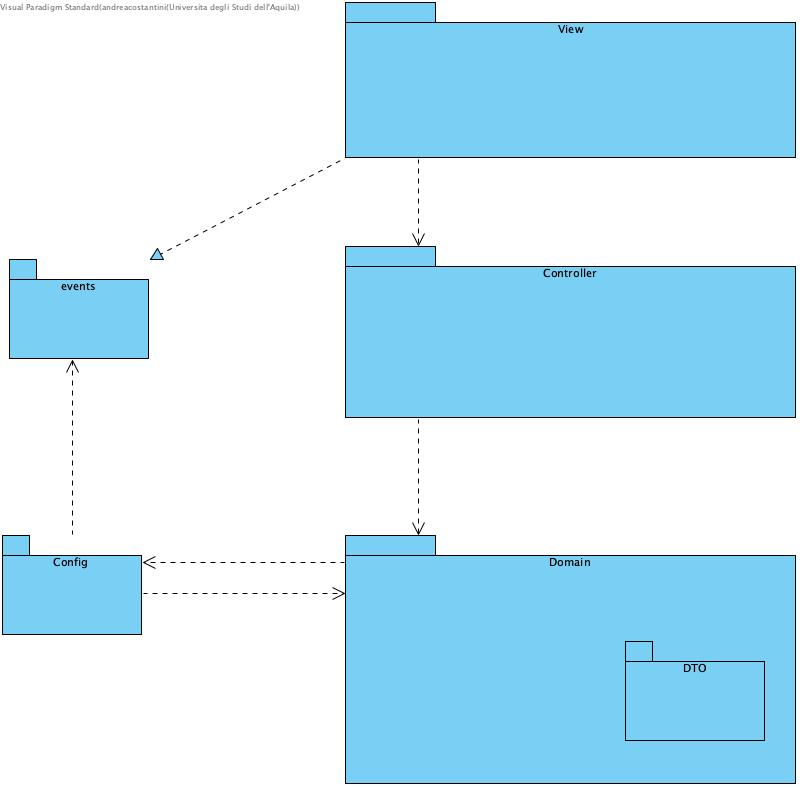
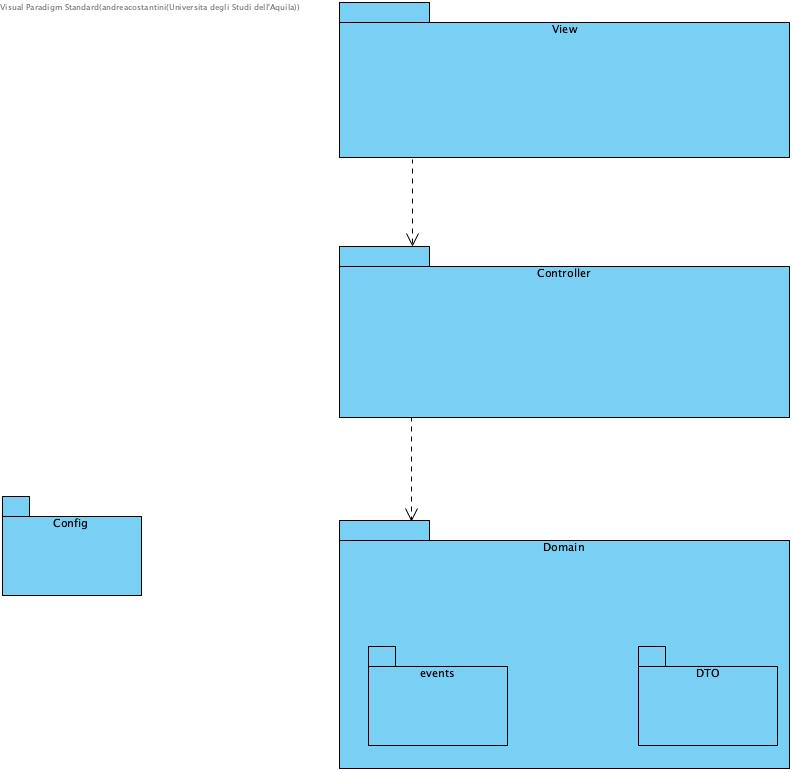
Move event classes to com.cluedo.events
Refactor: relocate EventDispatcher, EventHandler and EventListener into the com.cluedo.events package and update package declarations. Adjusted imports across the codebase (GameBootstrapper, AssumptionState, Board, CluedoGame, TurnView, WelcomeView) to reference the new package. Includes minor cleanup and related binary metadata updates.

diff --git a/demo/src/main/java/com/cluedo/domain/Board.java b/demo/src/main/java/com/cluedo/domain/Board.java
@@ -8,11 +8,10 @@ import java.util.*;
 import java.util.concurrent.ThreadLocalRandom;
 import com.fasterxml.jackson.databind.JsonNode;
 import com.fasterxml.jackson.databind.ObjectMapper;
-
-import com.cluedo.config.EventDispatcher;
 import com.cluedo.config.GameConfig;
 import com.cluedo.config.GameEvent;
 import com.cluedo.domain.dto.*;
+import com.cluedo.events.EventDispatcher;
 
 public class Board {
 

diff --git a/demo/src/main/java/com/cluedo/events/EventDispatcher.java b/demo/src/main/java/com/cluedo/events/EventDispatcher.java
@@ -1,4 +1,4 @@
-package com.cluedo.config;
+package com.cluedo.events;
 
 import java.util.ArrayList;
 import java.util.HashMap;
@@ -7,7 +7,7 @@ import java.util.List;
 import java.util.Map;
 import java.util.Set;
 
-import com.cluedo.events.GameObserver;
+import com.cluedo.config.GameEvent;
 
 /**
  * Centralized event dispatcher that manages all event registration and dispatching.

diff --git a/demo/src/main/java/com/cluedo/events/EventHandler.java b/demo/src/main/java/com/cluedo/events/EventHandler.java
@@ -1,4 +1,4 @@
-package com.cluedo.view;
+package com.cluedo.events;
 
 import java.util.ArrayList;
 import java.util.HashMap;
@@ -6,7 +6,6 @@ import java.util.List;
 import java.util.Map;
 
 import com.cluedo.config.GameEvent;
-import com.cluedo.events.GameObserver;
 
 /**
  * Event handler that dispatches game events to registered listeners.

diff --git a/demo/src/main/java/com/cluedo/domain/AssumptionState.java b/demo/src/main/java/com/cluedo/domain/AssumptionState.java
@@ -2,10 +2,10 @@ package com.cluedo.domain;
 
 import java.util.ArrayList;
 
-import com.cluedo.config.EventDispatcher;
 import com.cluedo.config.GameConfig;
 import com.cluedo.config.GameEvent;
 import com.cluedo.domain.dto.*;
+import com.cluedo.events.EventDispatcher;
 
 public class AssumptionState extends AbstractGameState{
     @Override

diff --git a/demo/src/main/java/com/cluedo/domain/CluedoGame.java b/demo/src/main/java/com/cluedo/domain/CluedoGame.java
@@ -4,9 +4,9 @@ import java.util.ArrayList;
 import java.util.Collections;
 import java.util.Scanner;
 
-import com.cluedo.config.EventDispatcher;
 import com.cluedo.config.GameEvent;
 import com.cluedo.domain.dto.*;
+import com.cluedo.events.EventDispatcher;
 
 
 public class CluedoGame {

diff --git a/demo/src/main/java/com/cluedo/view/TurnView.java b/demo/src/main/java/com/cluedo/view/TurnView.java
@@ -19,6 +19,7 @@ import com.cluedo.domain.Turn;
 import com.cluedo.domain.dto.ActionResult;
 import com.cluedo.domain.dto.DoActionResult;
 import com.cluedo.domain.dto.RollResult;
+import com.cluedo.events.EventHandler;
 
 public class TurnView {
     

diff --git a/demo/src/main/java/com/cluedo/view/WelcomeView.java b/demo/src/main/java/com/cluedo/view/WelcomeView.java
@@ -9,6 +9,7 @@ import com.cluedo.config.GameConfig;
 import com.cluedo.config.GameEvent;
 import com.cluedo.config.GameModeRegistry;
 import com.cluedo.controller.GameController;
+import com.cluedo.events.EventHandler;
 
 public class WelcomeView {
 

diff --git a/demo/src/main/java/com/cluedo/config/GameBootstrapper.java b/demo/src/main/java/com/cluedo/config/GameBootstrapper.java
@@ -1,6 +1,7 @@
 package com.cluedo.config;
 
 import com.cluedo.controller.GameController;
+import com.cluedo.events.EventDispatcher;
 import com.cluedo.view.InputView;
 import com.cluedo.view.TurnView;
 import com.cluedo.view.WelcomeView;

diff --git a/demo/src/main/java/com/cluedo/events/EventListener.java b/demo/src/main/java/com/cluedo/events/EventListener.java
@@ -1,4 +1,4 @@
-package com.cluedo.view;
+package com.cluedo.events;
 
 import com.cluedo.config.GameEvent;
 
